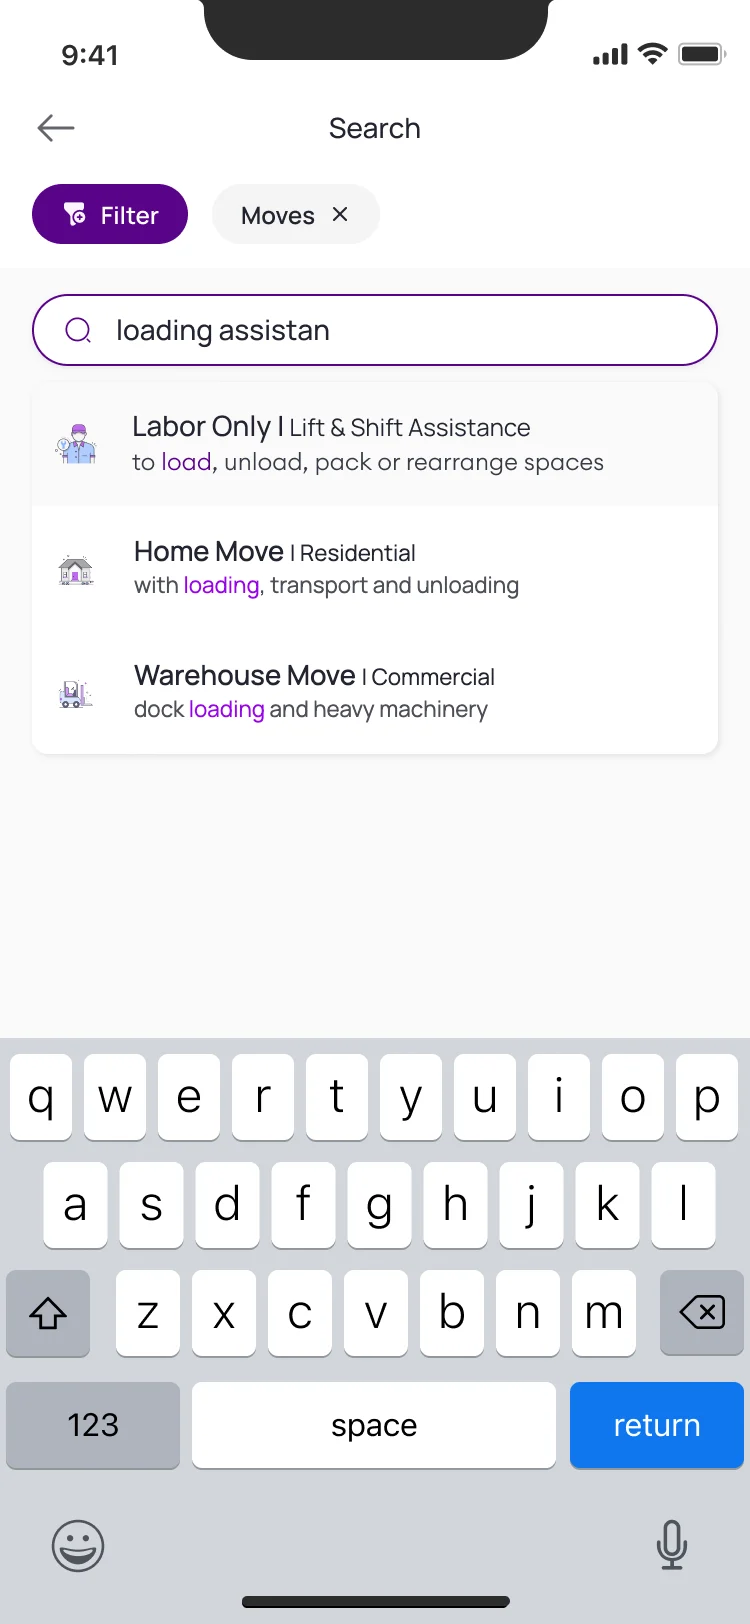
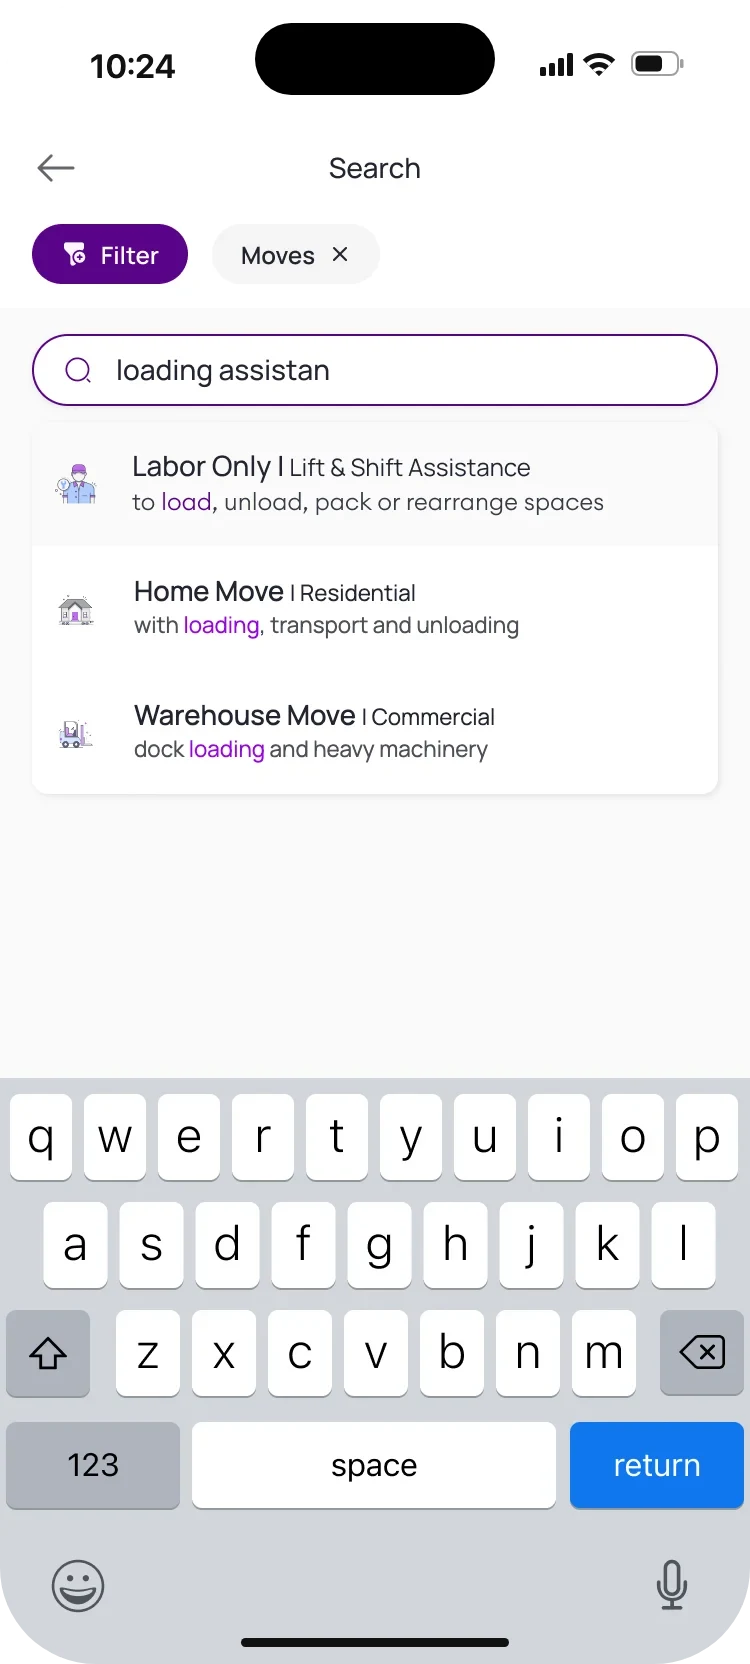
Muvr: Crypex-style status bar without squeezing the screens
The old status bar is cut and the content moved down 40px, so the Dynamic Island
keeps the same breathing room the notch had; each screen's own grid is untouched.
10:24 and a lower battery keep it distinct from Crypex. Covers re-rendered.

diff --git a/work/muvr.html b/work/muvr.html
@@ -36,7 +36,7 @@
   <link rel="stylesheet" href="../assets/css/identity.css?v=24">
   <link rel="stylesheet" href="../assets/css/case.css?v=1">
   <link rel="stylesheet" href="../assets/css/case-crypex.css?v=3">
-  <link rel="stylesheet" href="../assets/css/case-muvr.css?v=9">
+  <link rel="stylesheet" href="../assets/css/case-muvr.css?v=10">
   <script src="../assets/js/main.js?v=5" defer></script>
   <script src="../assets/js/case-crypex.js?v=6" defer></script>
 </head>
@@ -103,9 +103,9 @@
               <p>One move, two apps</p>
             </div>
             <div class="mv-cover__screens">
-              <img src="../assets/img/muvr/home.webp" width="750" height="1624" alt="User app home: moves grouped as residential and commercial, each with its own illustration.">
-              <img src="../assets/img/muvr/help-home.webp" width="750" height="1624" alt="Driver app help centre: onboarding and tickets tabs, search and six illustrated categories.">
-              <img src="../assets/img/muvr/crew-dashboard-progress.webp" width="750" height="1624" alt="Driver app onboarding dashboard at 60%, with one recommended next step.">
+              <img src="../assets/img/muvr/home.webp" width="750" height="1664" alt="User app home: moves grouped as residential and commercial, each with its own illustration.">
+              <img src="../assets/img/muvr/help-home.webp" width="750" height="1664" alt="Driver app help centre: onboarding and tickets tabs, search and six illustrated categories.">
+              <img src="../assets/img/muvr/crew-dashboard-progress.webp" width="750" height="1664" alt="Driver app onboarding dashboard at 60%, with one recommended next step.">
             </div>
           </div>
         </div>
@@ -371,17 +371,17 @@
             </ul>
           </div>
           <div class="mv-shots mv-shots--3 cx-strip">
-            <img src="../assets/img/muvr/home.webp" width="750" height="1624" alt="Home on the Moves tab: a search field, residential moves (home, apartment, dorm room), commercial moves (office, store, warehouse) and Lift and Shift assistance under more options." loading="lazy">
-            <img src="../assets/img/muvr/search.webp" width="750" height="1624" alt="Search with “loading assistan” typed: the first result is Labor Only, Lift and Shift Assistance, with the matching word highlighted." loading="lazy">
-            <img src="../assets/img/muvr/search-empty.webp" width="750" height="1624" alt="Search with no results: a sad folder illustration, “Oops!” and a short line saying nothing matched." loading="lazy">
+            <img src="../assets/img/muvr/home.webp" width="750" height="1664" alt="Home on the Moves tab: a search field, residential moves (home, apartment, dorm room), commercial moves (office, store, warehouse) and Lift and Shift assistance under more options." loading="lazy">
+            <img src="../assets/img/muvr/search.webp" width="750" height="1664" alt="Search with “loading assistan” typed: the first result is Labor Only, Lift and Shift Assistance, with the matching word highlighted." loading="lazy">
+            <img src="../assets/img/muvr/search-empty.webp" width="750" height="1664" alt="Search with no results: a sad folder illustration, “Oops!” and a short line saying nothing matched." loading="lazy">
           </div>
         </article>
 
         <!-- F2 · Move types -->
         <article class="cx-feature cx-feature--flip">
           <div class="cx-feature__shots">
-            <img src="../assets/img/muvr/type-home.webp" width="750" height="1624" alt="Home Move: a one-line description, “Where are you moving from?” and a table comparing Standard, Premium and White-Glove." loading="lazy">
-            <img src="../assets/img/muvr/type-labor.webp" width="750" height="1624" alt="Labor-Only page: rows for rearranging, furniture and floor protection and staged placement." loading="lazy">
+            <img src="../assets/img/muvr/type-home.webp" width="750" height="1664" alt="Home Move: a one-line description, “Where are you moving from?” and a table comparing Standard, Premium and White-Glove." loading="lazy">
+            <img src="../assets/img/muvr/type-labor.webp" width="750" height="1664" alt="Labor-Only page: rows for rearranging, furniture and floor protection and staged placement." loading="lazy">
           </div>
           <div class="cx-feature__text">
             <p class="cx-label">Move types</p>
@@ -398,8 +398,8 @@
         <!-- F3 · Buildings -->
         <article class="cx-feature">
           <div class="cx-feature__shots">
-            <img src="../assets/img/muvr/pickup-apartment.webp" width="750" height="1630" alt="Pickup details for an apartment: unit number 57B, access by elevator and a time window from 8 am to 6 pm." loading="lazy">
-            <img src="../assets/img/muvr/dropoff-warehouse.webp" width="750" height="2126" alt="Drop-off details for a warehouse: both addresses on top, 9th floor by freight elevator, access hours from 8 am to 6 pm and a note about pre-scheduled loading dock slots." loading="lazy">
+            <img src="../assets/img/muvr/pickup-apartment.webp" width="750" height="1670" alt="Pickup details for an apartment: unit number 57B, access by elevator and a time window from 8 am to 6 pm." loading="lazy">
+            <img src="../assets/img/muvr/dropoff-warehouse.webp" width="750" height="2166" alt="Drop-off details for a warehouse: both addresses on top, 9th floor by freight elevator, access hours from 8 am to 6 pm and a note about pre-scheduled loading dock slots." loading="lazy">
           </div>
           <div class="cx-feature__text">
             <p class="cx-label">Booking · steps 1 and 3</p>
@@ -415,8 +415,8 @@
         <!-- F4 · Items -->
         <article class="cx-feature cx-feature--flip">
           <div class="cx-feature__shots">
-            <img src="../assets/img/muvr/items-two.webp" width="750" height="1624" alt="Home layout with two floors and four bedrooms, and two items listed, a refrigerator and a washing machine, each with its size and a 200 to 300 lbs weight range." loading="lazy">
-            <img src="../assets/img/muvr/items-remove.webp" width="750" height="1624" alt="A dialog over the list: Remove Item. Are you sure you want to remove the refrigerator from your listing? No, and Yes, I’m sure." loading="lazy">
+            <img src="../assets/img/muvr/items-two.webp" width="750" height="1664" alt="Home layout with two floors and four bedrooms, and two items listed, a refrigerator and a washing machine, each with its size and a 200 to 300 lbs weight range." loading="lazy">
+            <img src="../assets/img/muvr/items-remove.webp" width="750" height="1664" alt="A dialog over the list: Remove Item. Are you sure you want to remove the refrigerator from your listing? No, and Yes, I’m sure." loading="lazy">
           </div>
           <div class="cx-feature__text">
             <p class="cx-label">Booking · step 2</p>
@@ -465,8 +465,8 @@
         <!-- D1 · Sign in -->
         <article class="cx-feature">
           <div class="cx-feature__shots">
-            <img src="../assets/img/muvr/login.webp" width="750" height="1624" alt="Get started with Muvr: a mobile number field with a country picker, Continue, and a Find my account link for people who changed their number." loading="lazy">
-            <img src="../assets/img/muvr/login-found.webp" width="750" height="1624" alt="“Is this you?” sheet: an existing account was found for that number, with the driver’s name, a Yes, it’s me button and No, this is not me." loading="lazy">
+            <img src="../assets/img/muvr/login.webp" width="750" height="1664" alt="Get started with Muvr: a mobile number field with a country picker, Continue, and a Find my account link for people who changed their number." loading="lazy">
+            <img src="../assets/img/muvr/login-found.webp" width="750" height="1664" alt="“Is this you?” sheet: an existing account was found for that number, with the driver’s name, a Yes, it’s me button and No, this is not me." loading="lazy">
           </div>
           <div class="cx-feature__text">
             <p class="cx-label">Sign-in and sign-up</p>
@@ -482,8 +482,8 @@
         <!-- D2 · Roles -->
         <article class="cx-feature cx-feature--flip">
           <div class="cx-feature__shots">
-            <img src="../assets/img/muvr/crew-welcome.webp" width="750" height="1624" alt="Welcome, John: a friendly character with flags, a short note about completing onboarding and an identity check, and a Begin button." loading="lazy">
-            <img src="../assets/img/muvr/crew-roles.webp" width="750" height="2908" alt="Role selection: Mover, Hauler and Courier, with the Mover card expanded to explain what a mover does, the requirements, and driver versus helper." loading="lazy">
+            <img src="../assets/img/muvr/crew-welcome.webp" width="750" height="1664" alt="Welcome, John: a friendly character with flags, a short note about completing onboarding and an identity check, and a Begin button." loading="lazy">
+            <img src="../assets/img/muvr/crew-roles.webp" width="750" height="2948" alt="Role selection: Mover, Hauler and Courier, with the Mover card expanded to explain what a mover does, the requirements, and driver versus helper." loading="lazy">
           </div>
           <div class="cx-feature__text">
             <p class="cx-label">Roles</p>
@@ -499,8 +499,8 @@
         <!-- D3 · Dashboard -->
         <article class="cx-feature">
           <div class="cx-feature__shots">
-            <img src="../assets/img/muvr/crew-dashboard-progress.webp" width="750" height="1624" alt="Onboarding dashboard at 60%: three items left, the certificate of insurance recommended next, and optional and completed sections folded away." loading="lazy">
-            <img src="../assets/img/muvr/crew-accepted-popup.webp" width="750" height="1624" alt="Dashboard with a pop-up: Accepted Submission. Your Lifting Video submission has been verified and accepted, with See Updates." loading="lazy">
+            <img src="../assets/img/muvr/crew-dashboard-progress.webp" width="750" height="1664" alt="Onboarding dashboard at 60%: three items left, the certificate of insurance recommended next, and optional and completed sections folded away." loading="lazy">
+            <img src="../assets/img/muvr/crew-accepted-popup.webp" width="750" height="1664" alt="Dashboard with a pop-up: Accepted Submission. Your Lifting Video submission has been verified and accepted, with See Updates." loading="lazy">
           </div>
           <div class="cx-feature__text">
             <p class="cx-label">Onboarding dashboard</p>
@@ -520,9 +520,9 @@
             <p>A vehicle is a short form, safety gear is a checklist and skills are switches. Each requirement asks in the way that fits what it proves, with the same header, progress and buttons around it.</p>
           </div>
           <div class="mv-gallery mv-gallery--3 cx-strip">
-            <figure><img src="../assets/img/muvr/req-vehicle.webp" width="750" height="1624" alt="Vehicle information, step one: a list of vehicle types with Pickup Truck selected." loading="lazy"><figcaption><b>Vehicle</b><span>Type first, details next</span></figcaption></figure>
-            <figure><img src="../assets/img/muvr/req-equipment.webp" width="750" height="1706" alt="Essential equipment checklist for movers: 4-wheel dolly, hand truck, lifting straps, furniture blankets, stretch wrap and a disassembly kit, all ticked." loading="lazy"><figcaption><b>Equipment</b><span>A checklist, then a photo</span></figcaption></figure>
-            <figure><img src="../assets/img/muvr/req-skills.webp" width="750" height="1986" alt="Highlight your skills: core skills as switches, with stairs navigation, fragile items, communication and loading switched on." loading="lazy"><figcaption><b>Skills</b><span>Switches, grouped by service</span></figcaption></figure>
+            <figure><img src="../assets/img/muvr/req-vehicle.webp" width="750" height="1664" alt="Vehicle information, step one: a list of vehicle types with Pickup Truck selected." loading="lazy"><figcaption><b>Vehicle</b><span>Type first, details next</span></figcaption></figure>
+            <figure><img src="../assets/img/muvr/req-equipment.webp" width="750" height="1746" alt="Essential equipment checklist for movers: 4-wheel dolly, hand truck, lifting straps, furniture blankets, stretch wrap and a disassembly kit, all ticked." loading="lazy"><figcaption><b>Equipment</b><span>A checklist, then a photo</span></figcaption></figure>
+            <figure><img src="../assets/img/muvr/req-skills.webp" width="750" height="2026" alt="Highlight your skills: core skills as switches, with stairs navigation, fragile items, communication and loading switched on." loading="lazy"><figcaption><b>Skills</b><span>Switches, grouped by service</span></figcaption></figure>
           </div>
         </article>
 
@@ -533,9 +533,9 @@
             <p>The same moments repeat across the eight requirements that need a review, so drivers learn the pattern once. Waiting has a shape, good news gets a small celebration and a decline is never a dead end.</p>
           </div>
           <div class="mv-gallery mv-gallery--3 cx-strip">
-            <figure><img src="../assets/img/muvr/st-verifying.webp" width="750" height="1624" alt="Lifting video under review: an illustration of a character with a video, and a note that the review takes 24 to 48 hours." loading="lazy"><figcaption><b>In review</b><span>24 to 48 hours, then a notification</span></figcaption></figure>
-            <figure><img src="../assets/img/muvr/st-accepted.webp" width="750" height="1624" alt="Driver’s licence verified: a character waving flags and Verification Completed with a green badge." loading="lazy"><figcaption><b>Accepted</b><span>A small celebration</span></figcaption></figure>
-            <figure><img src="../assets/img/muvr/crew-declined.webp" width="750" height="1624" alt="Declined profile photo: a short explanation, a link to the decline report, Help and Retake Submission." loading="lazy"><figcaption><b>Declined</b><span>A report, and a retake</span></figcaption></figure>
+            <figure><img src="../assets/img/muvr/st-verifying.webp" width="750" height="1664" alt="Lifting video under review: an illustration of a character with a video, and a note that the review takes 24 to 48 hours." loading="lazy"><figcaption><b>In review</b><span>24 to 48 hours, then a notification</span></figcaption></figure>
+            <figure><img src="../assets/img/muvr/st-accepted.webp" width="750" height="1664" alt="Driver’s licence verified: a character waving flags and Verification Completed with a green badge." loading="lazy"><figcaption><b>Accepted</b><span>A small celebration</span></figcaption></figure>
+            <figure><img src="../assets/img/muvr/crew-declined.webp" width="750" height="1664" alt="Declined profile photo: a short explanation, a link to the decline report, Help and Retake Submission." loading="lazy"><figcaption><b>Declined</b><span>A report, and a retake</span></figcaption></figure>
           </div>
         </article>
 
@@ -550,10 +550,10 @@
             </ul>
           </div>
           <div class="mv-gallery cx-strip">
-            <figure><img src="../assets/img/muvr/help-home.webp" width="750" height="1624" alt="Help centre home: onboarding and tickets tabs, a search field and six illustrated categories." loading="lazy"><figcaption><b>Home</b><span>Search and illustrated topics</span></figcaption></figure>
-            <figure><img src="../assets/img/muvr/help-categories.webp" width="750" height="1624" alt="All categories as a list: onboarding, roles, tickets and contact, requirements, optionals and verification, then Contact Us." loading="lazy"><figcaption><b>Categories</b><span>Named after onboarding</span></figcaption></figure>
-            <figure><img src="../assets/img/muvr/help-article.webp" width="750" height="1882" alt="Article: Changing your role, with steps to change it, whether you can keep more than one role, and Was this helpful?" loading="lazy"><figcaption><b>Article</b><span>One question, one answer</span></figcaption></figure>
-            <figure><img src="../assets/img/muvr/help-tickets.webp" width="750" height="1624" alt="Ticket history grouped by date: payout, vehicle details, a COI question and a role change, each with its status." loading="lazy"><figcaption><b>Tickets</b><span>Status at a glance</span></figcaption></figure>
+            <figure><img src="../assets/img/muvr/help-home.webp" width="750" height="1664" alt="Help centre home: onboarding and tickets tabs, a search field and six illustrated categories." loading="lazy"><figcaption><b>Home</b><span>Search and illustrated topics</span></figcaption></figure>
+            <figure><img src="../assets/img/muvr/help-categories.webp" width="750" height="1664" alt="All categories as a list: onboarding, roles, tickets and contact, requirements, optionals and verification, then Contact Us." loading="lazy"><figcaption><b>Categories</b><span>Named after onboarding</span></figcaption></figure>
+            <figure><img src="../assets/img/muvr/help-article.webp" width="750" height="1922" alt="Article: Changing your role, with steps to change it, whether you can keep more than one role, and Was this helpful?" loading="lazy"><figcaption><b>Article</b><span>One question, one answer</span></figcaption></figure>
+            <figure><img src="../assets/img/muvr/help-tickets.webp" width="750" height="1664" alt="Ticket history grouped by date: payout, vehicle details, a COI question and a role change, each with its status." loading="lazy"><figcaption><b>Tickets</b><span>Status at a glance</span></figcaption></figure>
           </div>
         </article>
 

diff --git a/assets/css/case-muvr.css b/assets/css/case-muvr.css
@@ -19,7 +19,7 @@
 .mv-cover__brand img { width: clamp(84px, 9vw, 128px); height: auto; }
 .mv-cover__brand p { font-family: var(--font-mono); font-size: 11px; letter-spacing: var(--tracking-wide); text-transform: uppercase; color: rgba(255, 255, 255, 0.86); }
 .mv-cover__screens { position: absolute; left: 43%; right: 4%; top: 9%; bottom: -30%; display: grid; grid-template-columns: repeat(3, minmax(0, 1fr)); gap: 4%; align-items: start; }
-.mv-cover__screens img { width: 100%; height: auto; border-radius: 9% / 4.2%; box-shadow: 0 22px 36px -12px rgba(60, 10, 100, 0.28), 0 2px 6px rgba(22, 21, 15, 0.06); }
+.mv-cover__screens img { width: 100%; height: auto; filter: drop-shadow(0 22px 28px rgba(60, 10, 100, 0.24)); }
 .mv-cover__screens img:nth-child(2) { margin-top: -9%; }
 .mv-cover__screens img:nth-child(3) { margin-top: 6%; }
 
@@ -30,14 +30,14 @@
 
 /* ---------- Screens: the screen itself, rounded, with a soft shadow (no device, no outline) ---------- */
 .mv .cx-strip img, .mv .cx-feature__shots img {
-  border: 0; border-radius: clamp(14px, 1.8vw, 26px); background: #FFFFFF;
-  box-shadow: 0 18px 32px -14px rgba(40, 20, 70, 0.22), 0 2px 6px rgba(22, 21, 15, 0.05); filter: none;
+  border: 0; border-radius: 0; background: none; box-shadow: none;
+  filter: drop-shadow(0 14px 20px rgba(40, 20, 70, 0.16));
 }
 .mv .cx-feature__shots, .mv-shots, .mv-gallery { border: 1px solid var(--color-border); border-radius: var(--radius-3); background: #F3EEF9; }
 .mv-app--driver .cx-feature__shots, .mv-app--driver .mv-gallery, .mv-app--driver .mv-shots { background: #EDF6F2; }
 .mv .cx-feature__shots { align-items: start; gap: var(--sp-6); padding: var(--sp-7) var(--sp-6); }
 @media (hover: hover) and (pointer: fine) {
-  .mv .cx-strip img:hover, .mv .cx-feature__shots img:hover { transform: translateY(-4px); box-shadow: 0 24px 40px -14px rgba(40, 20, 70, 0.3), 0 2px 6px rgba(22, 21, 15, 0.05); filter: none; }
+  .mv .cx-strip img:hover, .mv .cx-feature__shots img:hover { transform: translateY(-4px); box-shadow: none; filter: drop-shadow(0 18px 24px rgba(40, 20, 70, 0.22)); }
 }
 
 /* ---------- Overview: the two ends, side by side ---------- */
@@ -227,7 +227,6 @@
   .mv .cx-feature__shots { padding: var(--sp-5) var(--sp-4); gap: var(--sp-4); }
   .mv-stickies { grid-template-columns: 1fr; }
   .mv-canvas { padding: var(--sp-4); }
-  .mv .cx-strip img, .mv .cx-feature__shots img { border-radius: 12px; }
   .mv-gallery, .mv-gallery--3 { gap: var(--sp-4); padding: var(--sp-5) var(--sp-4); }
   .case-cover .mv-cover { background: linear-gradient(180deg, var(--mv-purple) 0 24%, #F3EAFD 24% 100%); }
   .mv-cover__brand { width: auto; right: 0; bottom: auto; height: 24%; }

diff --git a/index.html b/index.html
@@ -197,7 +197,7 @@
               <span class="frame__label"><b>Case 01</b> Moving marketplace <span class="dim">2 apps · 2025</span></span>
               <span class="frame__handles"><span></span></span>
               <div class="case__thumb">
-                <img src="assets/img/muvr/cover-card.webp?v=6" width="1200" height="750" alt="" loading="lazy" style="position: absolute; inset: 0; width: 100%; height: 100%; object-fit: cover;">
+                <img src="assets/img/muvr/cover-card.webp?v=7" width="1200" height="750" alt="" loading="lazy" style="position: absolute; inset: 0; width: 100%; height: 100%; object-fit: cover;">
                 <div class="spec" style="left: 4%; bottom: 8%;">2 APPS · REVAMP</div>
               </div>
               <div class="case__body">
@@ -218,7 +218,7 @@
               <span class="frame__label"><b>Case 02</b> Crypto payments <span class="dim">iOS app · 0 → 1</span></span>
               <span class="frame__handles"><span></span></span>
               <div class="case__thumb">
-                <img class="crypex" src="assets/img/crypex/cover-card.webp?v=6" width="1200" height="750" alt="" loading="lazy">
+                <img class="crypex" src="assets/img/crypex/cover-card.webp?v=7" width="1200" height="750" alt="" loading="lazy">
                 <div class="spec" style="right: 4%; bottom: 8%;">0 → 1 · DESIGN COMPLETE</div>
               </div>
               <div class="case__body">
